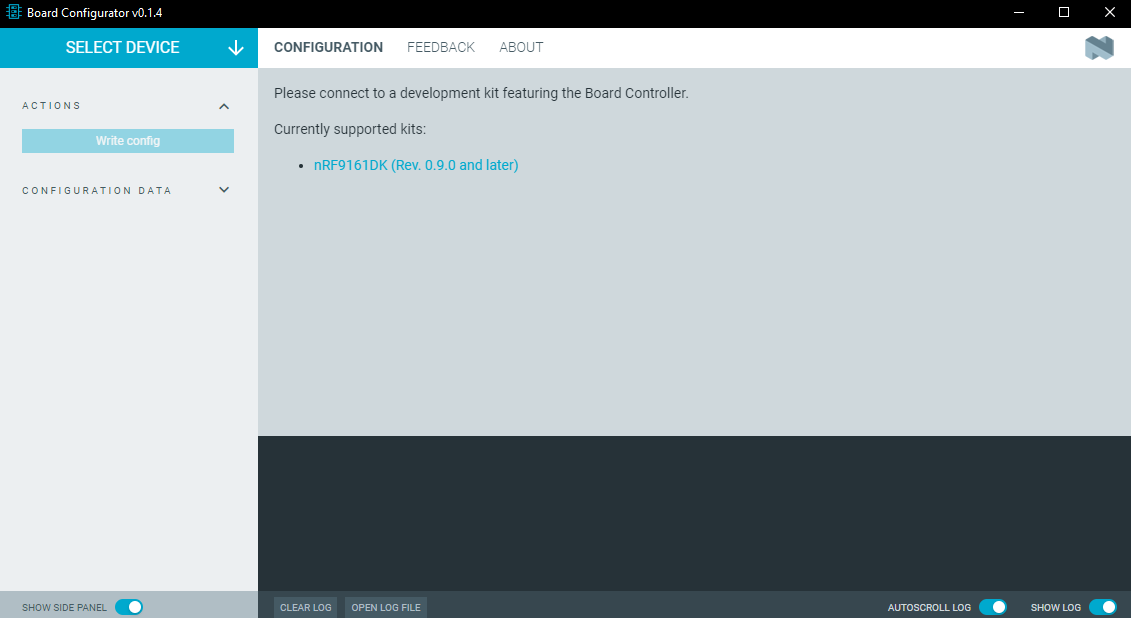
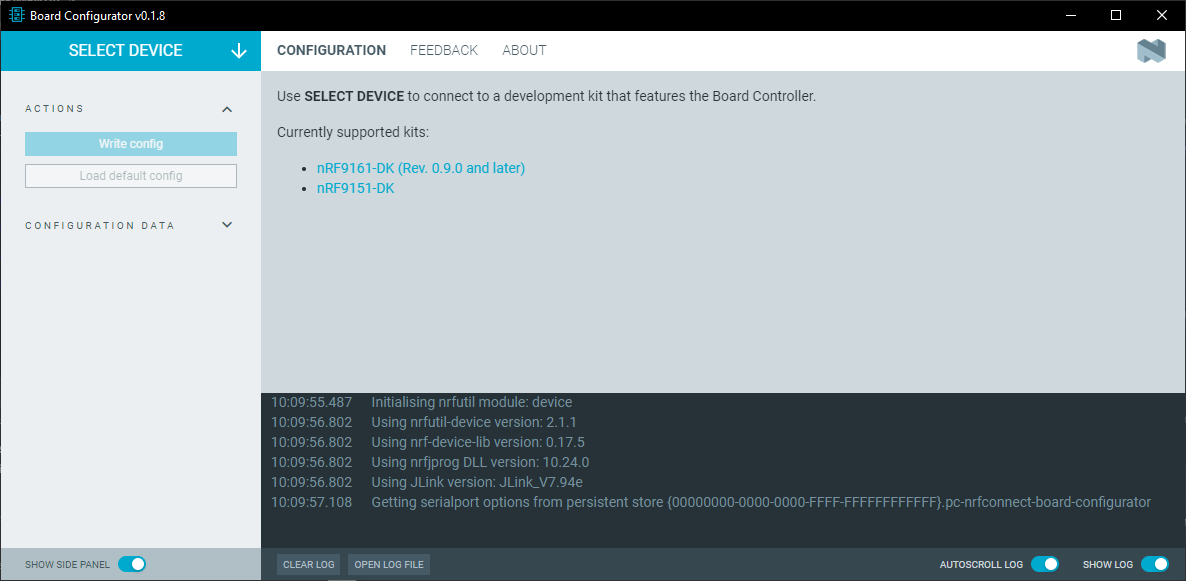
doc: update for 0.1.8 release
Updated documentaton for the v0.1.8 release.
NCD-767, NCD-747, and PR #58.

Changed region(s): [[0.0, 0.0, 1.0, 1.0], [0.0309, 0.3718, 0.1547, 0.4028]]

diff --git a/doc/docs/revision_history.md b/doc/docs/revision_history.md
@@ -2,6 +2,7 @@
 
 | Date       | Description   |
 |------------|---------------|
+| 2024-03-05 | Updated documentation for the experimental [v0.1.8](https://github.com/NordicSemiconductor/pc-nrfconnect-board-configurator/blob/main/Changelog.md) of the application. |
 | 2024-02-21 | Added the nRF9151 DK to the list of supported devices with the release of [v0.1.6](https://github.com/NordicSemiconductor/pc-nrfconnect-board-configurator/blob/main/Changelog.md) of the application. |
 | 2024-02-15 | Updated documentation for the experimental [v0.1.4](https://github.com/NordicSemiconductor/pc-nrfconnect-board-configurator/blob/main/Changelog.md) of the application. |
 | 2024-01-15 | First release, for the experimental [v0.1.0](https://github.com/NordicSemiconductor/pc-nrfconnect-board-configurator/blob/main/Changelog.md) of the application. |

diff --git a/doc/docs/overview.md b/doc/docs/overview.md
@@ -15,6 +15,7 @@ Opens the drop-down with the list of devices connected to the computer. You can 
 When you select a device, the following actions become available in the side panel:
 
 - **Write config** - Writes the selected configurations to the development kit, overwriting the defaults.
+- **Load default config** - Loads the default configuration settings into the application UI for the selected device. It does not write anything to the development kit.
 
 ## Configuration tab
 
